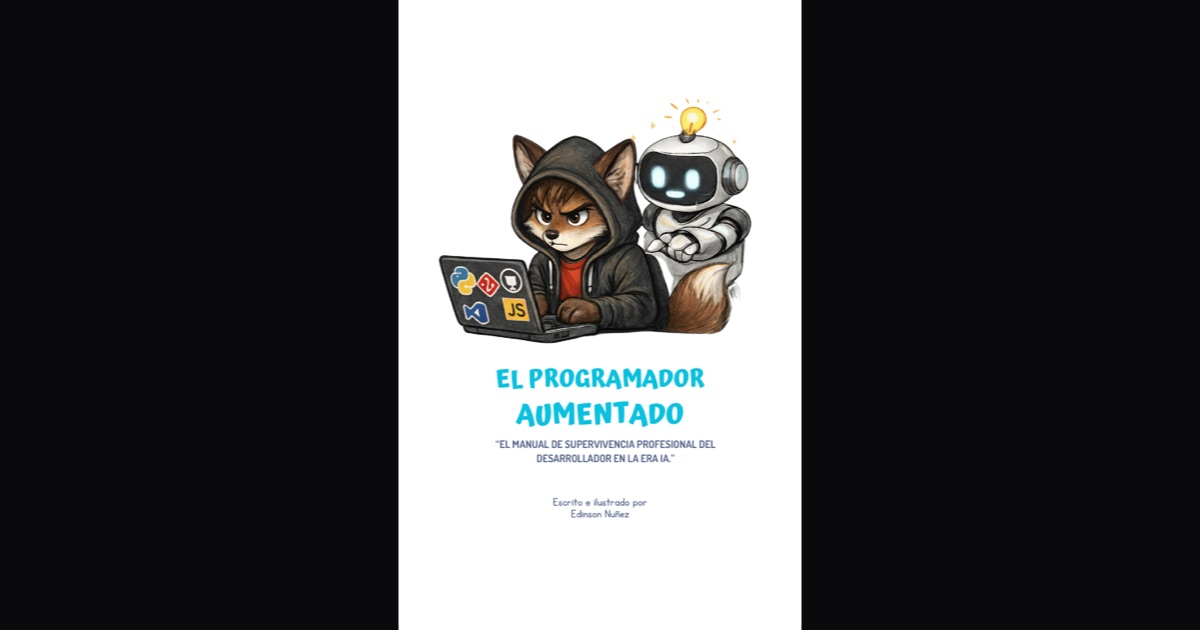
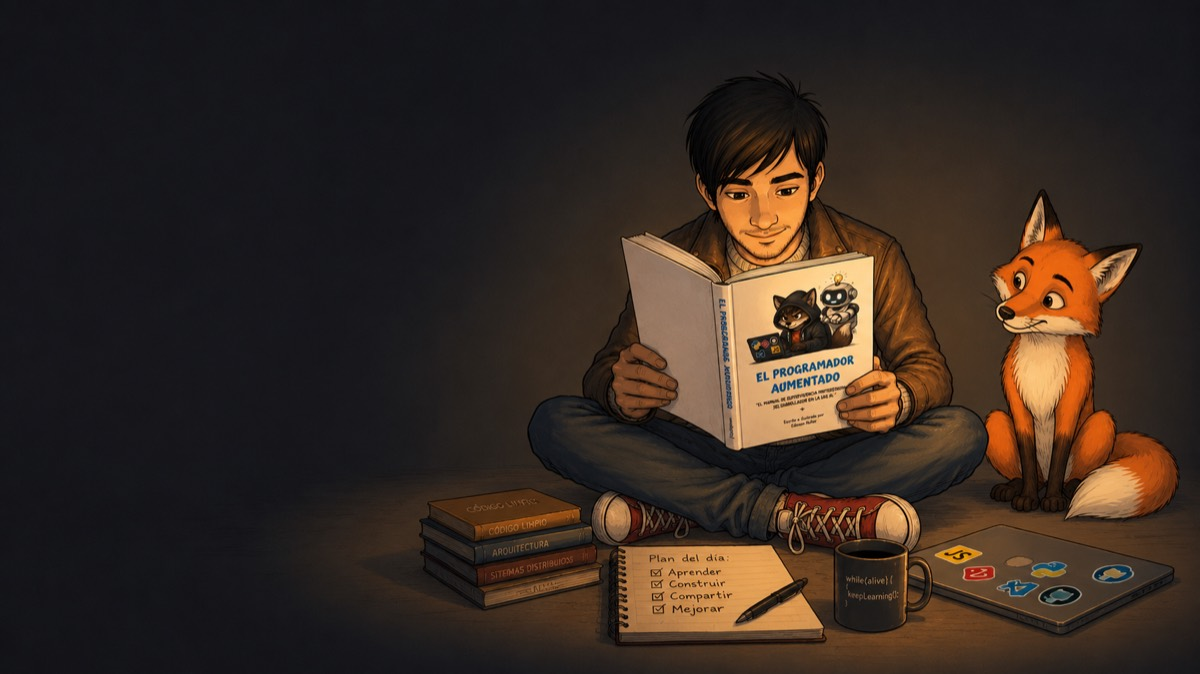
feat(blog): use new landscape illustration for "El Programador Aumentado"
- Add landscape cover illustration and optimized OG image (<120KB)
- Use it as the list/home thumbnail instead of the portrait book cover

diff --git a/app/blog/data.ts b/app/blog/data.ts
@@ -79,7 +79,7 @@ export const blogPosts: BlogPost[] = [
       "Move beyond vibe coding and adopt AI-assisted development with intention, context, and professional judgment.",
     date: "2024-12",
     category: "Libro",
-    image: "/cover.png",
+    image: "/blog/el-programador-aumentado-og.jpg",
     featured: true,
   },
   {
